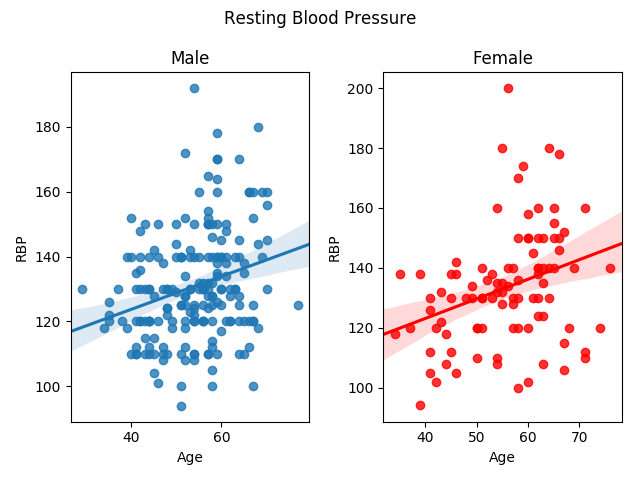
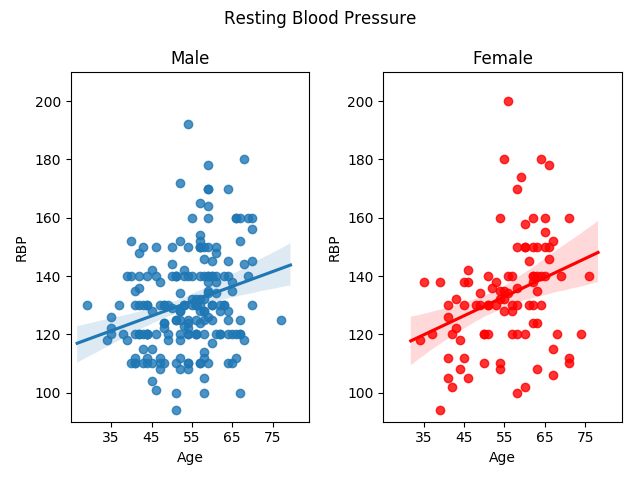
graph 3 histograms

diff --git a/Project/Visualization/graph.py b/Project/Visualization/graph.py
@@ -25,6 +25,51 @@ class graph:
         self.db = db_conn
 
 
+    # Chest Pain Type
+    def create_plot_3(self):
+
+        # Get data
+        conn = sqlite3.connect(db.database_name)
+        df = pd.read_sql_query('SELECT Age, Sex, Chest_Pain_Type, Target FROM Heart;', conn)
+
+        ## Plot histograms male and female by type
+
+        sns.set_style("darkgrid")               # set the background of the charts
+        bins = [20,30,40,50,60,70,80]           # group age by 10's
+        palette = {'color': ['b', 'r']}         # separate colours for male/female
+
+        g = sns.FacetGrid(df, row='Sex', col='Chest_Pain_Type', hue='Sex',
+                margin_titles=True, hue_kws=palette)
+        g.map(sns.distplot, 'Age', bins=bins, kde=False,
+                hist_kws=dict(edgecolor="black", linewidth=1));
+
+        ## Format Plot
+
+        # Axis Limits
+        g.axes[1,0].set_ylim(0,50)
+        g.axes[1,0].set_xlim(20,80)
+        g.axes[1,0].set_xticks(range(20, 81, 10))
+        g.axes[1,0].set_yticks(range(0, 55, 10))
+
+        # Titles
+        plt.subplots_adjust(top=0.85, left=0.05)
+        g.fig.suptitle("Chest Pain Type\n")
+        g.axes[0,0].set_title("Typical Angina")
+        g.axes[0,1].set_title("Atypical Angina")
+        g.axes[0,2].set_title("Non-Anginal Pain")
+        g.axes[0,3].set_title("Asymptomatic")
+
+        # Overall Labels
+        g.set_axis_labels('', '')
+        g.fig.text(x=0.01, y=0.5, verticalalignment='center',s='Frequency', rotation=90, size=11)
+        g.fig.text(x=0.5, y=0.01, horizontalalignment='center', s='Age', size=11)
+        gender_labels =  ["","","","Male","","","","Female","","","",]
+        for i, ax in enumerate(g.axes.flat):
+            plt.setp(ax.texts, text=gender_labels[i], size=11)
+
+        # Save image
+        plt.savefig(IMG_PATH + 'graph3.png')
+
     # Resting Blood Pressure
     def create_plot_4(self):
 
@@ -36,18 +81,30 @@ class graph:
         male_df = df.query('Sex == 1')
         female_df = df.query('Sex == 0')
 
-        # Scatter plot
+        # Scatter plots
         fig, axes = plt.subplots(nrows=1, ncols=2)
         ax1 = sns.regplot(x=male_df['Age'], y=male_df['RBP'], label='male', ax=axes[0])
         ax2 = sns.regplot(x=female_df['Age'], y=female_df['RBP'], label='female',
                 color='red', ax=axes[1])
+
+        ## Format Plot
 
         # Add titles
         fig.suptitle('Resting Blood Pressure\n')
         ax1.set_title('Male')
         ax2.set_title('Female')
 
-        # Format and save
+        # X-Axis
+        ax1.set_xlim(25,84)
+        ax2.set_xlim(25,84)
+        ax1.set_xticks(range(35, 84, 10))
+        ax2.set_xticks(range(35, 84, 10))
+
+        # Y-Axis
+        ax1.set_ylim(90,210)
+        ax2.set_ylim(90,210)
+
+        # Layout
         fig.tight_layout()
         fig.subplots_adjust(top=0.85)
 
@@ -55,6 +112,93 @@ class graph:
         plt.savefig(IMG_PATH + 'graph4.png')
 
 
+    # Serum Cholesterol
+    def create_plot_5(self):
+
+        # Get data
+        conn = sqlite3.connect(db.database_name)
+        df = pd.read_sql_query('SELECT Age, Sex, Serum_Chol FROM Heart;', conn)
+
+        # Divide into male and female
+        male_df = df.query('Sex == 1')
+        female_df = df.query('Sex == 0')
+
+        # Scatter plots
+        fig, axes = plt.subplots(nrows=1, ncols=2)
+        ax1 = sns.regplot(x=male_df['Age'], y=male_df['Serum_Chol'], label='male', ax=axes[0])
+        ax2 = sns.regplot(x=female_df['Age'], y=female_df['Serum_Chol'], label='female',
+                color='red', ax=axes[1])
+
+        ## Format Plot
+
+        # Add titles
+        fig.suptitle('Serum Cholesterol\n')
+        ax1.set_title('Male')
+        ax2.set_title('Female')
+
+        # X-Axis
+        ax1.set_xlim(25,84)
+        ax2.set_xlim(25,84)
+        ax1.set_xticks(range(35, 84, 10))
+        ax2.set_xticks(range(35, 84, 10))
+
+        # Y-Axis
+        ax1.set_ylim(100, 580)
+        ax2.set_ylim(100, 580)
+        ax1.set_yticks(range(200, 600, 100))
+        ax2.set_yticks(range(200, 560, 100))
+
+        # Layout
+        fig.tight_layout()
+        fig.subplots_adjust(top=0.85)
+
+        # Save image
+        plt.savefig(IMG_PATH + 'graph5.png')
+
+
+    # Max Heart Rate
+    def create_plot_8(self):
+
+        # Get data
+        conn = sqlite3.connect(db.database_name)
+        df = pd.read_sql_query('SELECT Age, Sex, Max_Heart_Rate FROM Heart;', conn)
+
+        # Divide into male and female
+        male_df = df.query('Sex == 1')
+        female_df = df.query('Sex == 0')
+
+        # Scatter plots
+        fig, axes = plt.subplots(nrows=1, ncols=2)
+        ax1 = sns.regplot(x=male_df['Age'], y=male_df['Max_Heart_Rate'], label='male', ax=axes[0])
+        ax2 = sns.regplot(x=female_df['Age'], y=female_df['Max_Heart_Rate'], label='female',
+                color='red', ax=axes[1])
+
+        # Format Plot
+
+        # Add titles
+        fig.suptitle('Max Heart Rate\n')
+        ax1.set_title('Male')
+        ax2.set_title('Female')
+
+        # X-Axis
+        ax1.set_xlim(25,84)
+        ax2.set_xlim(25,84)
+        ax1.set_xticks(range(35, 84, 10))
+        ax2.set_xticks(range(35, 84, 10))
+
+        # Y-Axis
+        ax1.set_ylim(65,219)
+        ax2.set_ylim(65,219)
+
+        # Layout
+        fig.tight_layout()
+        fig.subplots_adjust(top=0.85)
+
+        # Save image
+        plt.savefig(IMG_PATH + 'graph8.png')
+
+
+# Main function to create each graph and save in /Server/static/images/
 if __name__ == '__main__':
 
     # Connect to our graph instance of the database
@@ -62,6 +206,35 @@ if __name__ == '__main__':
 
     # Create graphs and save files
 
+    '''
+    # Chest pain type
+    g3 = graph(3, db)
+    g3.create_plot_3()
+
     # Resting Blood Pressure
-    g4 = graph(1, db)
+    g4 = graph(4, db)
     g4.create_plot_4()
+
+    # Serum Cholestrol
+    g5 = graph(5, db)
+    g5.create_plot_5()
+
+    # Fasting Blood Sugar
+
+    # Resting ECG
+
+    # Max Heart Rate
+    g8 = graph(8, db)
+    g8.create_plot_8()
+
+    # Exercise Induced Angina
+
+    # Oldpeak
+
+    # Slope
+
+    # Number Vessels Coloure by Flouroscopy
+
+    # Thalassemia
+
+    '''

diff --git a/Project/Visualization/plan.md b/Project/Visualization/plan.md
@@ -4,6 +4,12 @@
 
 You need to visualize the statistics for basic information (attributes) 3-13 by groups of age and sex with appropriate charts, and display on your web app.
 
+**1. Age**  
+    Range: 29-77
+
+**2. Sex**  
+    Values: 1 = male, 0 = female
+
 **3. Chest Pain Type**  
     Values: 1 = typical angin, 2 = atypical angina, 3 = non-anginal pain, 4 = asymptomatic
 
